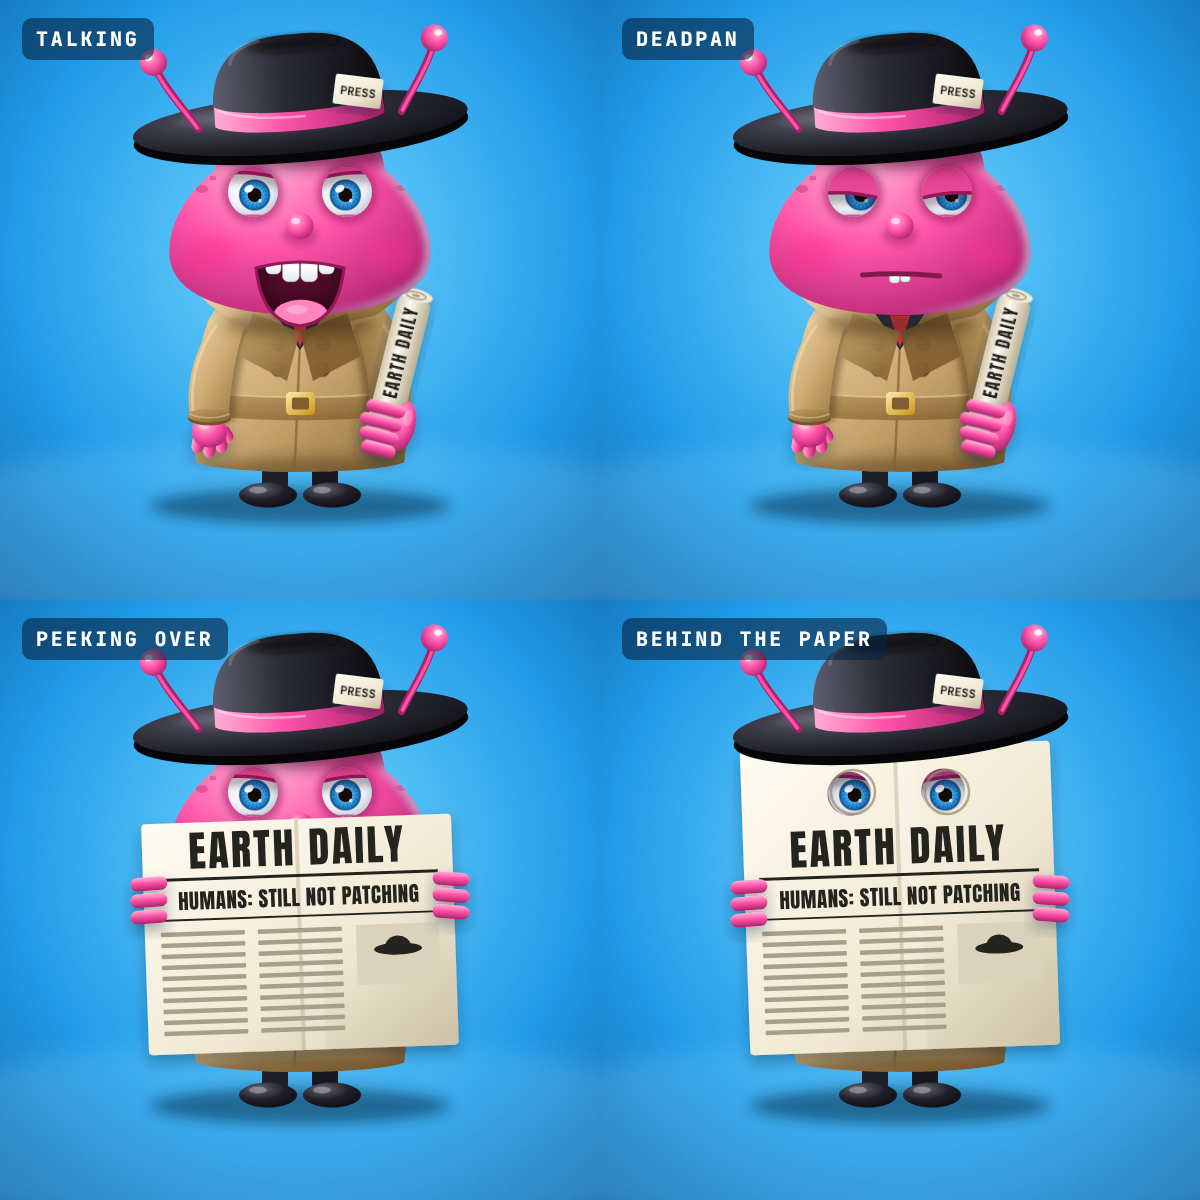
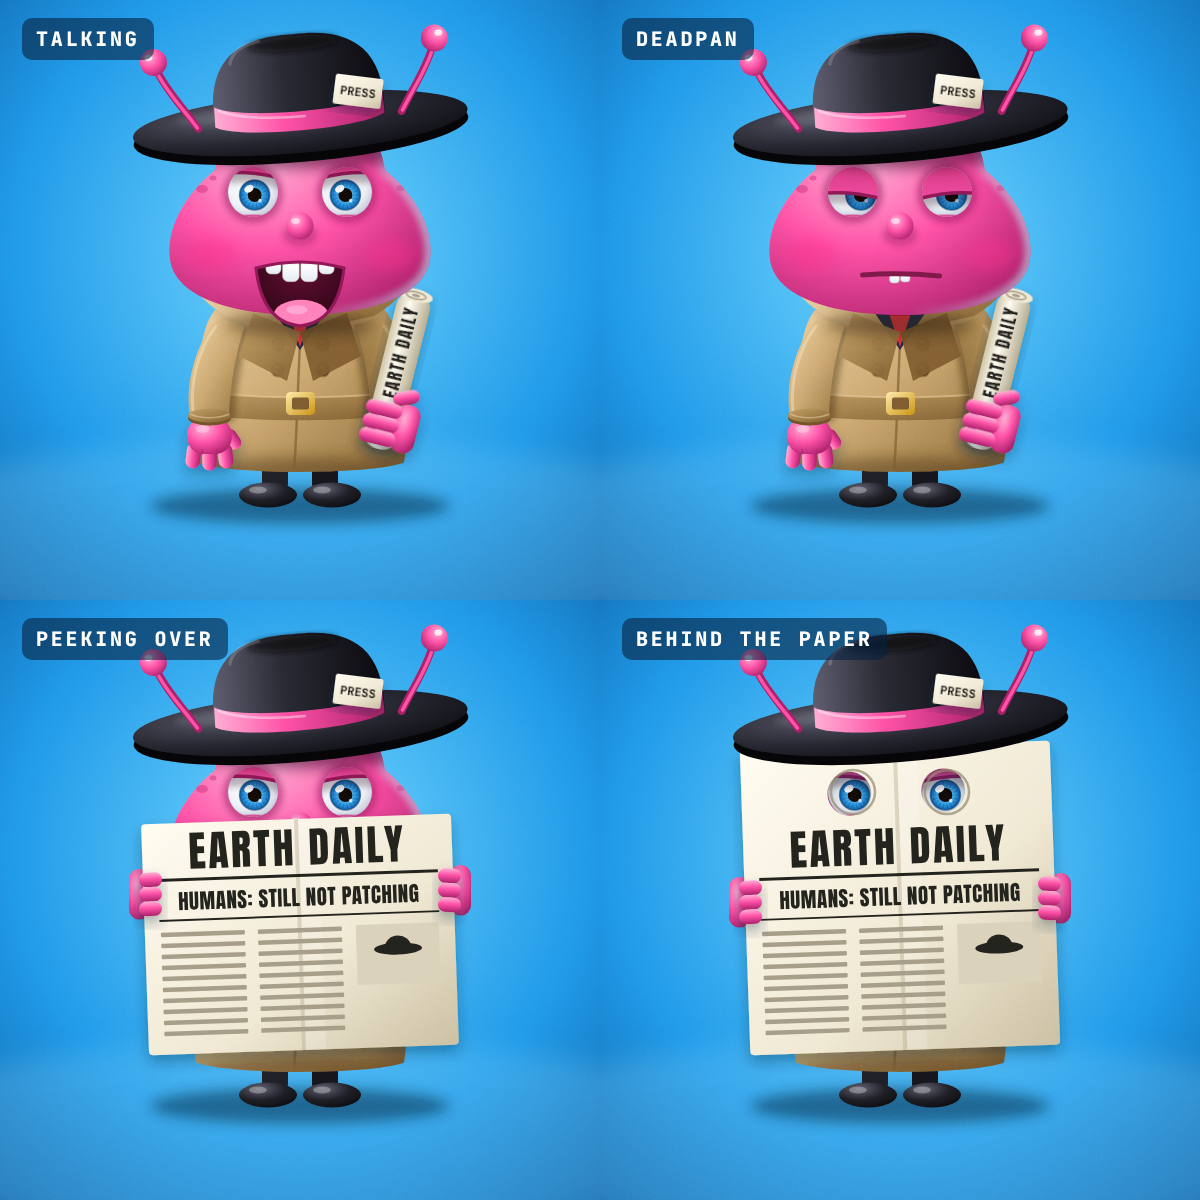
Draw every Peek hand pose from one shared hand spec
The relaxed hand, the fist on the rolled paper and the grip on the open
paper were three unrelated drawings with different sizes and finger counts.
They now share one spec: three fingers and a thumb, one finger thickness
and length, and a palm exactly three fingers wide. Fingers are shorter and
thicker to suit the character's proportions.

Claude-Session: https://claude.ai/code/session_01Ey97nkynYhNrAtNqj6XCWE

diff --git a/video/characters/peek3d.js b/video/characters/peek3d.js
@@ -142,15 +142,29 @@ function mouth(e, c) {
     <path d="M${600 + w * 1.2} ${y - rise} q10 -8 16 -2" fill="none" stroke="${c.dark}" stroke-width="6" stroke-linecap="round" opacity=".7"/>`;
 }
 
-const finger = (x, y, w, h, rot) => `<rect x="${x - w / 2}" y="${y}" width="${w}" height="${h}" rx="${w / 2}" transform="rotate(${rot} ${x} ${y})" fill="url(#${G}fing)"/>`;
-// A relaxed hand seen from the back. dir = +1 puts the thumb on the right.
+// One hand for every pose: three fingers and a thumb, the same thickness and length everywhere.
+const HT = 29, HL = 32, TT = 27;            // finger thickness, visible finger length, thumb thickness
+const PALM_W = HT * 3 + 2, PALM_H = 72;     // the palm is exactly three fingers wide
+const cap = (x, y, w, h, rot, g) => `<rect x="${x}" y="${y}" width="${w}" height="${h}" rx="${Math.min(w, h) / 2}" transform="rotate(${rot} ${x + w / 2} ${y + (rot && h > w ? 0 : h / 2)})" fill="url(#${G}${g})"/>`;
+
+// Relaxed, hanging, seen from the back. dir = +1 puts the thumb on the right.
 const hand = (cx, cy, dir, lo) => `<g filter="url(#${G}drop)">
-  ${finger(cx + dir * 25, cy - 10, 22, 34, -dir * 32)}
-  ${finger(cx - 21, cy + 6, 23, 36, 8)}${finger(cx, cy + 10, 24, 41, 0)}${finger(cx + 21, cy + 6, 23, 36, -8)}
-  <ellipse cx="${cx}" cy="${cy}" rx="35" ry="31" fill="url(#${G}ball)"/>
-  <path d="M${cx - 11} ${cy + 25} v8 M${cx + 11} ${cy + 25} v8" stroke="${lo}" stroke-width="3.5" stroke-linecap="round" opacity=".45"/>
-  <ellipse cx="${cx - 11}" cy="${cy - 12}" rx="12" ry="7" fill="#fff" opacity=".28"/></g>`;
-const grip = (x, y, side) => `<g filter="url(#${G}drop)">${[0, 33, 66].map((dy) => `<rect x="${side < 0 ? x - 40 : x - 34}" y="${y + dy}" width="74" height="27" rx="13.5" transform="rotate(${side * 4} ${x} ${y + dy})" fill="url(#${G}fingH)"/>`).join("")}</g>`;
+  ${cap(cx + dir * 33 - TT / 2, cy - 12, TT, 44, -dir * 34, "fing")}
+  ${cap(cx - HT - HT / 2, cy + 14, HT, HL + 19, 7, "fing")}${cap(cx - HT / 2, cy + 18, HT, HL + 19, 0, "fing")}${cap(cx + HT / 2, cy + 14, HT, HL + 19, -7, "fing")}
+  <rect x="${cx - PALM_W / 2}" y="${cy - PALM_H / 2}" width="${PALM_W}" height="${PALM_H}" rx="33" fill="url(#${G}ball)"/>
+  <path d="M${cx - HT / 2} ${cy + 27} v9 M${cx + HT / 2} ${cy + 27} v9" stroke="${lo}" stroke-width="3.5" stroke-linecap="round" opacity=".45"/>
+  <ellipse cx="${cx - 14}" cy="${cy - 14}" rx="14" ry="8" fill="#fff" opacity=".28"/></g>`;
+
+// Closed around a vertical tube whose centre line is x = 0; the hand comes in from the right.
+const fist = (y, lo) => `<g filter="url(#${G}drop)">
+  <rect x="20" y="${y - 4}" width="48" height="${PALM_W + 8}" rx="22" fill="url(#${G}ball)"/>
+  ${cap(4, y - 30, 54, TT, -24, "fingH")}
+  ${[0, 1, 2].map((k) => cap(-44, y + 1 + k * HT, HL + 42, HT, 0, "fingH")).join("")}
+  <path d="M-30 ${y + HT + 1} h14 M-30 ${y + HT * 2 + 1} h14" stroke="${lo}" stroke-width="3" stroke-linecap="round" opacity=".4"/></g>`;
+
+// Holding the edge of a sheet at x: knuckles behind the paper, three fingertips over the front.
+const gripBack = (x, y, side) => `<rect x="${side < 0 ? x - 34 : x - 8}" y="${y - 6}" width="42" height="${PALM_W + 12}" rx="20" fill="url(#${G}ball)"/>`;
+const grip = (x, y, side) => `<g filter="url(#${G}drop)">${[0, 1, 2].map((k) => cap(side < 0 ? x - 14 : x - HL, y + 1 + k * HT, HL + 14, HT, side * 3, "fingH")).join("")}</g>`;
 
 function newspaper(top, holes, c) {
   const h = 900 - top, rows = (x, w, y0, n) => Array.from({ length: n }, (_, i) => `<rect x="${x}" y="${y0 + i * 22}" width="${w}" height="9" rx="2" fill="#A39A84"/>`).join("");
@@ -197,9 +211,7 @@ export function peek3d(e, { face = "A", paper = "roll", size = 1200, viewBox = "
   const roll = `<g transform="translate(792 752) rotate(14)">
     <g filter="url(#${G}drop)"><rect x="-34" y="-170" width="68" height="320" rx="30" fill="url(#${G}roll)"/><ellipse cx="0" cy="-166" rx="34" ry="13" fill="#EFE7D1"/><ellipse cx="0" cy="-166" rx="20" ry="7" fill="none" stroke="#A39A84" stroke-width="3"/><ellipse cx="0" cy="-166" rx="8" ry="3" fill="#A39A84"/>
     <text transform="rotate(-90)" x="48" y="12" text-anchor="middle" font-family="Anton, Impact, sans-serif" font-size="34" letter-spacing="3" fill="#22201C">EARTH DAILY</text></g>
-    <g filter="url(#${G}drop)"><ellipse cx="38" cy="94" rx="24" ry="50" fill="url(#${G}ball)"/>
-    ${[[56, 80], [84, 86], [112, 80], [138, 70]].map(([y, w]) => `<rect x="${36 - w}" y="${y}" width="${w}" height="25" rx="12.5" fill="url(#${G}fingH)"/>`).join("")}
-    <ellipse cx="44" cy="76" rx="9" ry="16" fill="#fff" opacity=".22"/></g></g>`;
+    ${fist(54, lo)}</g>`;
   const collar = `
   <path d="M600 664 L452 632 C400 602 370 560 364 508 C430 540 520 592 600 664 Z" fill="url(#${G}collar)"/>
   <path d="M600 664 L748 632 C800 602 830 560 836 508 C770 540 680 592 600 664 Z" fill="url(#${G}coat2)"/>
@@ -234,13 +246,13 @@ export function peek3d(e, { face = "A", paper = "roll", size = 1200, viewBox = "
     ${antenna(false)}${antenna(true)}
   </g>`;
   const low = Math.max(...c.eyes.map((q) => q.cy + q.ry));
-  const paperLayer = paper === "over" ? newspaper(low + 4, false, c) + grip(300, low + 120, -1) + grip(900, low + 110, 1)
-    : paper === "holes" ? newspaper(292, true, c) + grip(300, 560, -1) + grip(900, 550, 1) : "";
+  const sheet = (top, holes, y) => gripBack(292, y, -1) + gripBack(908, y - 8, 1) + newspaper(top, holes, c) + grip(292, y, -1, lo) + grip(908, y - 8, 1, lo);
+  const paperLayer = paper === "over" ? sheet(low + 4, false, low + 110) : paper === "holes" ? sheet(292, true, 560) : "";
   const svg = `<svg xmlns="http://www.w3.org/2000/svg" viewBox="${viewBox}" width="${size}" height="${size}">${defs(c)}
   <rect width="1200" height="1200" fill="url(#${G}bg)"/>
   <ellipse cx="600" cy="1080" rx="900" ry="200" fill="#8FE0FF" opacity=".22" filter="url(#${G}b28)"/>
   ${body}
-  ${showArms ? sleeve(false) + hand(419, 864, 1, lo) + cuff(false) + sleeve(true) + cuff(true) + roll : ""}
+  ${showArms ? sleeve(false) + hand(419, 872, 1, lo) + cuff(false) + sleeve(true) + cuff(true) + roll : ""}
   ${collar}${head}${paperLayer}${hat}
   <rect width="1200" height="1200" filter="url(#${G}grain)" opacity=".1" style="mix-blend-mode:overlay"/>
   </svg>`;

diff --git a/video/characters/pear.html b/video/characters/pear.html
@@ -18,7 +18,8 @@ const root = document.getElementById("root"), F = "pear";
 const add = (id, html, cls = "card") => { const d = document.createElement("div"); d.className = cls; d.id = "card-" + id; d.innerHTML = html; root.appendChild(d); };
 add("pear-hero", `${peek3d(E.idle, { face: F })}<div class="title">PEEK</div><div class="sub">FIELD AGENT, EARTH<br>PEAR FACE</div>`);
 add("pear-closeup", `${peek3d(E.idle, { face: F, viewBox: "200 60 800 800" })}<div class="tag">CLOSE-UP</div>`);
-add("pear-hands", `${peek3d(E.idle, { face: F, viewBox: "300 560 600 600" })}<div class="tag">HANDS</div>`);
+add("pear-hands", [["roll", "300 770 240 240", "RELAXED"], ["roll", "690 740 240 240", "HOLDING THE ROLL"], ["over", "180 470 240 240", "ON THE PAPER, LEFT"], ["over", "780 462 240 240", "ON THE PAPER, RIGHT"]]
+  .map(([p, vb, l]) => `<div class="cell">${peek3d(E.idle, { face: F, paper: p, size: 600, viewBox: vb })}<div class="tag">${l}</div></div>`).join(""), "card grid");
 add("pear-states", [[E.talk, "roll", "TALKING"], [E.deadpan, "roll", "DEADPAN"], [E.idle, "over", "PEEKING OVER"], [E.idle, "holes", "BEHIND THE PAPER"]]
   .map(([e, p, l]) => `<div class="cell">${peek3d(e, { face: F, paper: p, size: 600 })}<div class="tag">${l}</div></div>`).join(""), "card grid");
 await document.fonts.load('120px "Anton"'); await document.fonts.ready; window.__ready = true;

diff --git a/video/README.md b/video/README.md
@@ -144,10 +144,10 @@ node characters/render-sheet.cjs characters/peek3d peek3d.html
 ### The picked face: `pear`
 
 `characters/pear.html` renders the chosen face on its own: full body, a
-close-up, a hands close-up and four states. The hands were redrawn for it: a
-relaxed hand with a palm, three fingers and a thumb coming out of a visible
-sleeve and cuff, a fist wrapped around the rolled newspaper, and fingers over
-the edge of the open paper. Faces with `teeth: true` get two front teeth under
+close-up, a hands close-up and four states. Every hand pose is built from one spec (`HT`, `HL`, `TT`,
+`PALM_W` in `peek3d.js`: three fingers and a thumb, one thickness, one length), so
+the relaxed hand, the fist around the rolled newspaper and the fingers over
+the edge of the open paper all match. Faces with `teeth: true` get two front teeth under
 the lip and a full upper row when talking.
 
 ```bash
